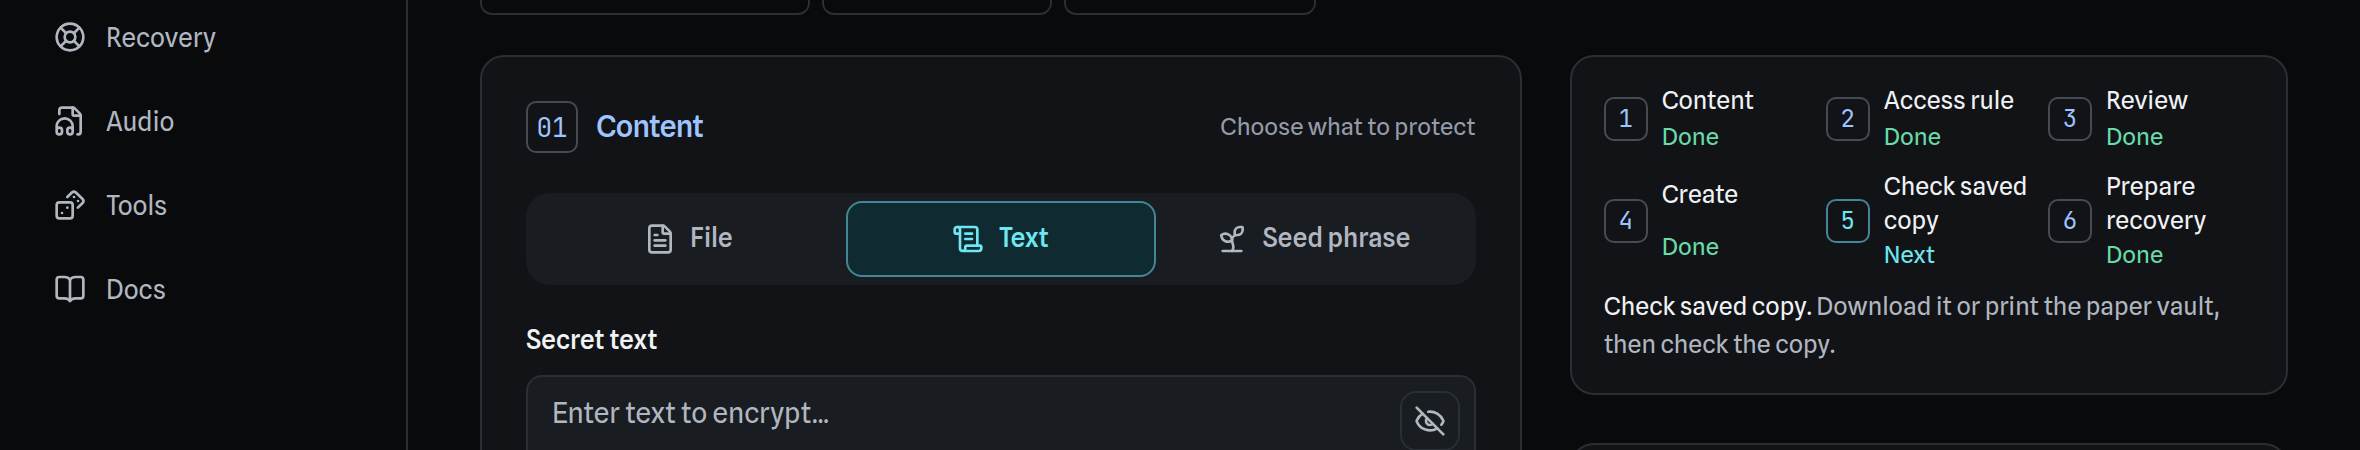
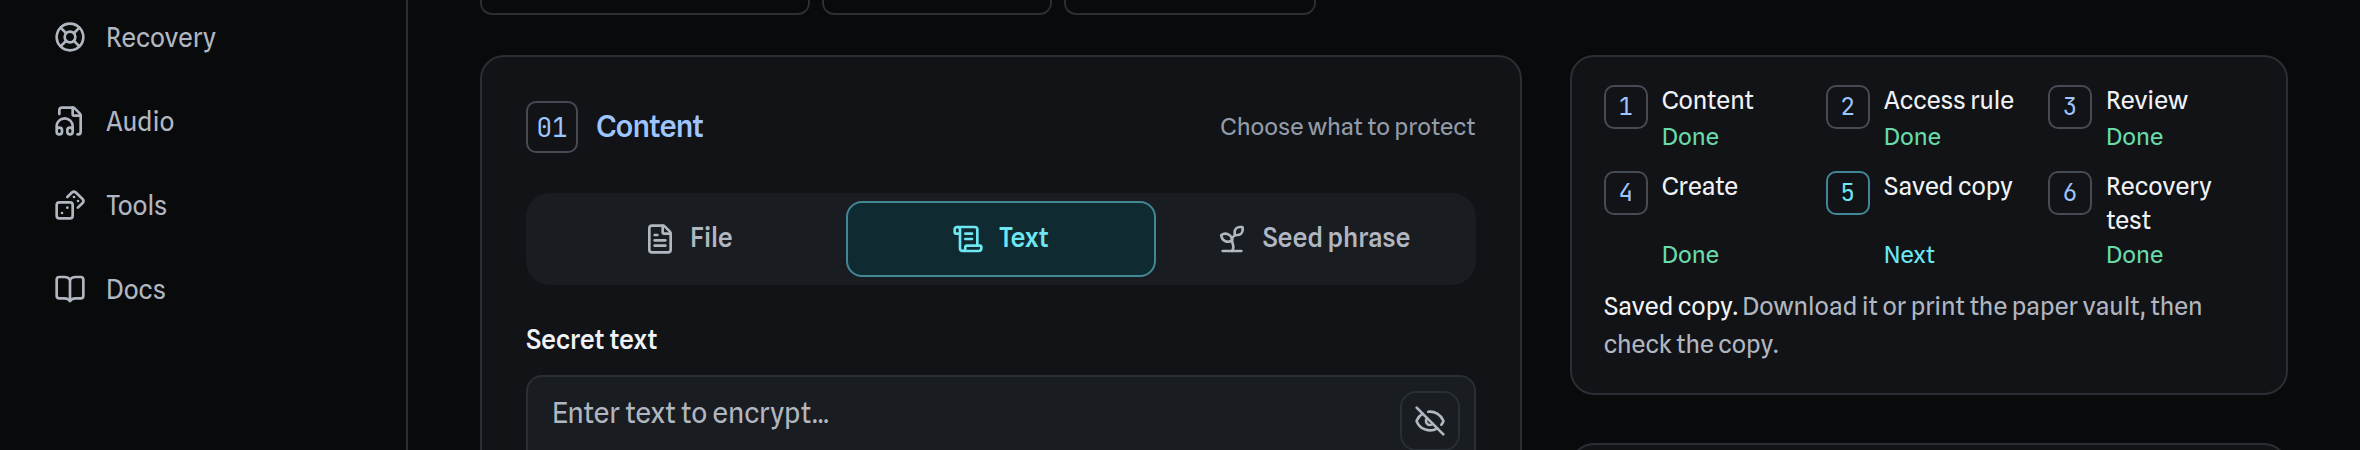
Line up the step list's rows
Usability finding S3. "Check saved copy" and "Prepare recovery" wrapped
in the three-column grid, so the second row's labels and state words
sat at different heights.

The labels are now "Saved copy" and "Recovery test". Each step is also
two grid rows, label on top and state at the bottom; steps in one row
stretch to the same height, so their state words share a line even
where a label still wraps, as "Recovery test" does at 1180px.

A new test in workflow-steps.spec.ts measures the rows at the
screenshot width. Restoring the old CSS fails it. The tests and
WALKTHROUGH.md use the new labels; 01-landing.png and
walkthrough-5-steps.png are recaptured.

Claude-Session: https://claude.ai/code/session_01GbCLpWTtk1prQYV8z6rYHr

diff --git a/tests/browser/workflow-steps.spec.ts b/tests/browser/workflow-steps.spec.ts
@@ -74,7 +74,7 @@ test("the steps follow the form, the job and the exports, and a download is only
   await expect(visible(page.getByTestId("seal-receipt"))).toBeVisible({ timeout: 60_000 });
   await expectStep(page, "create", "done", "Done");
   await expectStep(page, "saved-copy", "current", "Next");
-  await expect(page.getByTestId("workflow-step-detail")).toContainText("Check saved copy.");
+  await expect(page.getByTestId("workflow-step-detail")).toContainText("Saved copy.");
 
   const download = page.waitForEvent("download");
   await visible(page.getByRole("button", { name: /Download \.keym/ })).click();
@@ -142,4 +142,22 @@ test("recovery is done only after a rehearsal from the shares opens the backup",
   await expectStep(page, "recovery", "done", "Done");
   // Printing the sheet was never asked for, so the saved copy is still next.
   await expectStep(page, "saved-copy", "current", "Next");
+});
+
+test("the step grid's rows line up at the width the screenshots use", async ({ page }) => {
+  // Usability finding S3: a label that wrapped pushed its state word below its
+  // neighbours', and the one-line label beside it sat off the row's top.
+  await page.setViewportSize({ width: 1180, height: 1140 });
+  await page.goto("/");
+  const tops = async (selector: string) =>
+    page.getByTestId("workflow-steps").locator(selector).evaluateAll((els) =>
+      els.map((el) => Math.round(el.getBoundingClientRect().top))
+    );
+  const labels = await tops(".km-step-label");
+  const states = await tops(".km-step-state");
+  expect(labels).toHaveLength(6);
+  for (const [name, ys] of [["labels", labels], ["states", states]] as const) {
+    expect(new Set(ys.slice(0, 3)).size, `row 1 ${name} are not level: ${ys.slice(0, 3)}`).toBe(1);
+    expect(new Set(ys.slice(3, 6)).size, `row 2 ${name} are not level: ${ys.slice(3, 6)}`).toBe(1);
+  }
 });

diff --git a/src/app/globals.css b/src/app/globals.css
@@ -402,8 +402,12 @@
 .km-with-steps > .km-editor { grid-area: editor; }
 .km-with-steps > .km-steps { grid-area: steps; }
 .km-with-steps > .km-inspector { grid-area: inspector; }
-.km-steps li { display: grid; grid-template-columns: auto minmax(0, 1fr); column-gap: 7px; row-gap: 1px; align-items: center; min-width: 0; }
-.km-step-number { grid-row: span 2; display: inline-flex; align-items: center; justify-content: center; width: 22px; height: 22px; border: 1px solid var(--color-border-strong); border-radius: 5px; font-family: var(--font-mono); font-size: 12px; color: var(--color-structural); }
+/* Usability finding S3: each step is two rows, label on top and state at the
+   bottom. Steps in one grid row stretch to the same height, so their state
+   words share a line even when a label wraps. */
+.km-steps li { display: grid; grid-template-columns: auto minmax(0, 1fr); grid-template-rows: 1fr auto; column-gap: 7px; row-gap: 1px; align-items: start; min-width: 0; }
+.km-steps li .km-step-state { align-self: end; }
+.km-step-number { grid-row: 1 / span 2; align-self: start; display: inline-flex; align-items: center; justify-content: center; width: 22px; height: 22px; border: 1px solid var(--color-border-strong); border-radius: 5px; font-family: var(--font-mono); font-size: 12px; color: var(--color-structural); }
 .km-step-label { font-size: 12.5px; line-height: 1.3; color: var(--color-foreground); overflow-wrap: anywhere; }
 .km-step-state { font-size: 12px; line-height: 1.3; color: var(--color-subtle-foreground); }
 .km-steps li[data-state="current"] .km-step-number { border-color: var(--color-selection-border); color: var(--color-selected); }

diff --git a/tests/browser/recovery-test-keeps.spec.ts b/tests/browser/recovery-test-keeps.spec.ts
@@ -81,7 +81,7 @@ test("verifying the downloaded file checks the saved copy", async ({ page }) => 
 
   await tab(page, "Encrypt").click();
   await expect(step(page, "saved-copy")).toHaveAttribute("data-state", "done");
-  await expect(page.getByTestId("workflow-step-detail")).not.toContainText("Check saved copy.");
+  await expect(page.getByTestId("workflow-step-detail")).not.toContainText("Saved copy.");
   await expect(step(page, "recovery")).toHaveAttribute("data-state", "done");
   await tab(page, "Recovery").click();
   await expect(visible(page.getByTestId("recovery-saved-copy"))).toContainText("matched this backup byte for byte");

diff --git a/src/components/encryptor/use-encryptor-state.ts b/src/components/encryptor/use-encryptor-state.ts
@@ -539,7 +539,7 @@ export function useEncryptorState() {
   /**
    * Section 06. Which container symbols of this backup's printout have been
    * photographed back and matched to it, across every check since it was
-   * written. The "Check saved copy" step is done only when all of them have.
+   * written. The "Saved copy" step is done only when all of them have.
    */
   const [printoutCoverage, setPrintoutCoverage] = useState<PrintoutCoverage | null>(null);
   const [printoutBusy, setPrintoutBusy] = useState(false);

diff --git a/src/lib/backup-workflow.ts b/src/lib/backup-workflow.ts
@@ -251,8 +251,10 @@ export const STEP_LABELS: Record<StepId, string> = {
   access: "Access rule",
   review: "Review",
   create: "Create",
-  "saved-copy": "Check saved copy",
-  recovery: "Prepare recovery",
+  // Usability finding S3: short enough to stay on one line in the three-column
+  // grid, so each row's state words line up.
+  "saved-copy": "Saved copy",
+  recovery: "Recovery test",
 };
 
 /**

diff --git a/docs/reports/USABILITY-2026-09-29.md b/docs/reports/USABILITY-2026-09-29.md
@@ -33,7 +33,7 @@ which `npm run test:screenshots` checks.
 |---|---|---|---|
 | S1 | **The Recovery tab reported a change nobody made.** After testing the backup on the Decrypt tab, the Recovery tab said "The form on the Encrypt tab has changed since this backup was made (content)". The input type, the text box and the chosen file are shared by the two tabs, so the Decrypt side's input was read as the Encrypt form's. A File-mode test would also have said "input type". | **Fixed in this part.** Content and input type are compared only while the form is on the Encrypt tab; returning there restores both. `recovery-test-keeps.spec.ts` checks the Recovery tab after a text-mode and a file-mode test, and disabling the fix fails both checks. | None. |
 | S2 | **The container pane's first-visit copy promises what it no longer shows.** It says it "itemises the container it will write, header byte by header byte", and its button reads "Show the header it will write". With Format detail off, which is the default since part c, the itemisation shows the ways in and the layout but no header bytes. | **Fixed.** The copy and the button now follow the switch: off, they name the version, the ways in and the layout; on, they keep "header byte by header byte". Checked in `workflow-expert-view.spec.ts`. | Reword to what is shown ("…itemises the container it will write: its version, its ways in and its layout"), or turn Format detail on when the button is pressed. The first is smaller and keeps one switch in charge. |
-| S3 | **The step grid's rows do not line up.** "Check saved copy" and "Prepare recovery" wrap to two lines at this width, so in the second row "Create" sits higher than its neighbours and the three state words sit at two heights. | Open. | Shorter labels ("Saved copy", "Recovery"), or a grid that aligns the state words on a common row. |
+| S3 | **The step grid's rows do not line up.** "Check saved copy" and "Prepare recovery" wrap to two lines at this width, so in the second row "Create" sits higher than its neighbours and the three state words sit at two heights. | **Fixed.** Both: the labels are "Saved copy" and "Recovery test", and each step is two rows with the state at the bottom, so a row's labels share a top and its states share a line even where a label still wraps. Checked by measuring the rows in `workflow-steps.spec.ts`. | Shorter labels ("Saved copy", "Recovery"), or a grid that aligns the state words on a common row. |
 | S4 | **"Check saved copy" names only half of what completes it.** Its sentence says "Download it or print the paper vault, then check the copy", but not how to check. The two ways are loading the saved file on the Decrypt tab and verifying it, or photographing every printed symbol on the Recovery tab. The walkthrough now says so; the page does not. | Open. | Name both ways in the sentence, or link to the Recovery tab's printout check. |
 | S5 | **"credentials" is the page's word, not the owner's.** The stale-verify notice says "Changed since: credentials" for a newly typed password. | Open, minor. | "password or recovery shares". |
 | S6 | **Long sentences set in monospace.** The Recovery tab's "Saved copy" and "Recovery test" values are full sentences in the monospace data face, which reads slowly at this length. Predates Section 06. | Open, minor. | Body face for sentences; keep monospace for values such as byte counts. |

diff --git a/docs/WALKTHROUGH.md b/docs/WALKTHROUGH.md
@@ -119,11 +119,11 @@ hypothesis.
 Back on **Encrypt**, the steps above the container preview now say what the page
 knows about this backup:
 
-![The six steps: content, access rule, review and create done, check saved copy next, prepare recovery done](screenshots/walkthrough-5-steps.png)
+![The six steps: content, access rule, review and create done, saved copy next, recovery test done](screenshots/walkthrough-5-steps.png)
 
-**Prepare recovery** is done because the verify opened this exact backup: the
+**Recovery test** is done because the verify opened this exact backup: the
 page compares the bytes, so a verify of some other container would not count.
-**Check saved copy** is still next, because nothing has been saved. A download
+**Saved copy** is still next, because nothing has been saved. A download
 or a print only ever reads as started, since the browser does not say whether
 the file was kept. It turns to done when you load the saved file on the Decrypt
 tab and it verifies, or when you photograph every printed symbol on the

diff --git a/CHANGELOG.md b/CHANGELOG.md
@@ -19,6 +19,9 @@
   only when a rehearsal from the shares has opened it.
 
 ### Fixed
+- **The step list's rows did not line up.** Two labels wrapped and pushed their
+  state words out of line. They are now "Saved copy" and "Recovery test", and
+  each step keeps its state on the row's bottom line whatever its label does.
 - **The Format detail label wrapped.** It is now two words, with what it shows
   in a tooltip beside it and in the switch's accessible description.
 - **The container pane promised header bytes it did not show.** With Format
